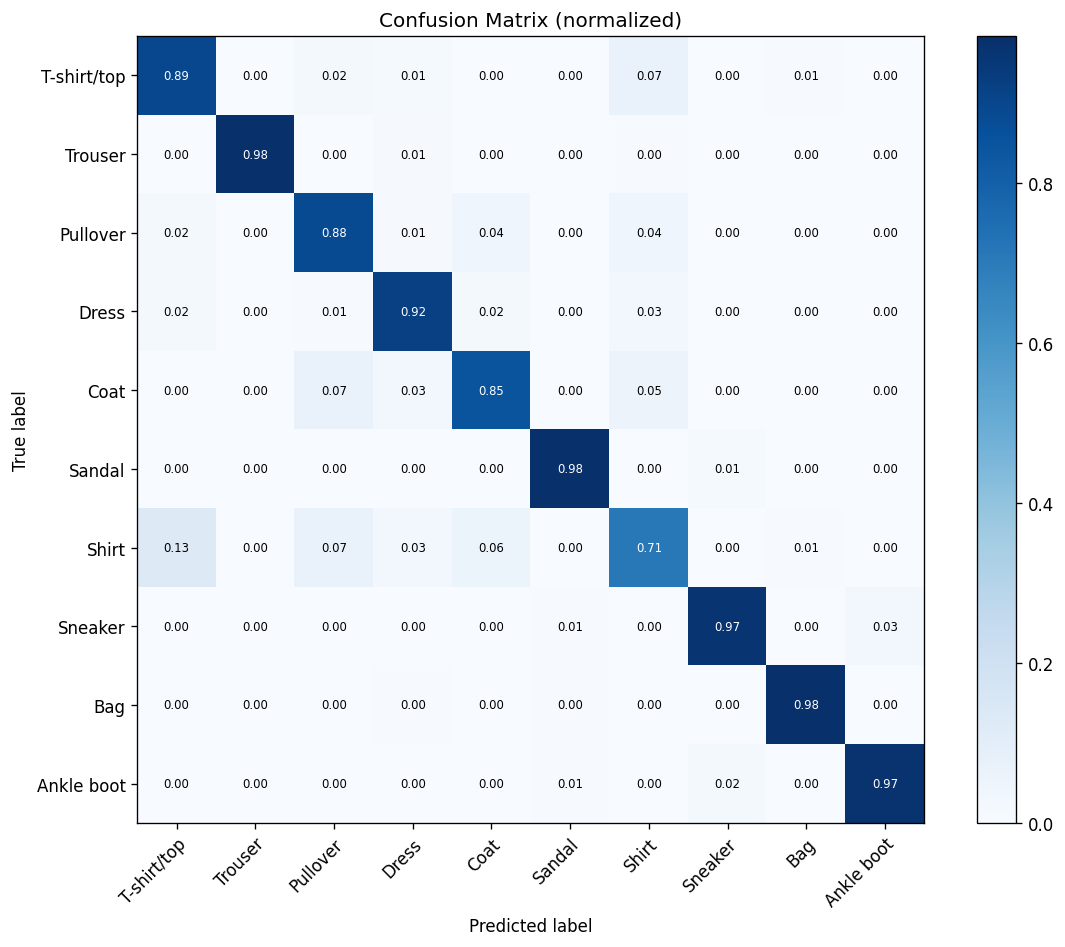
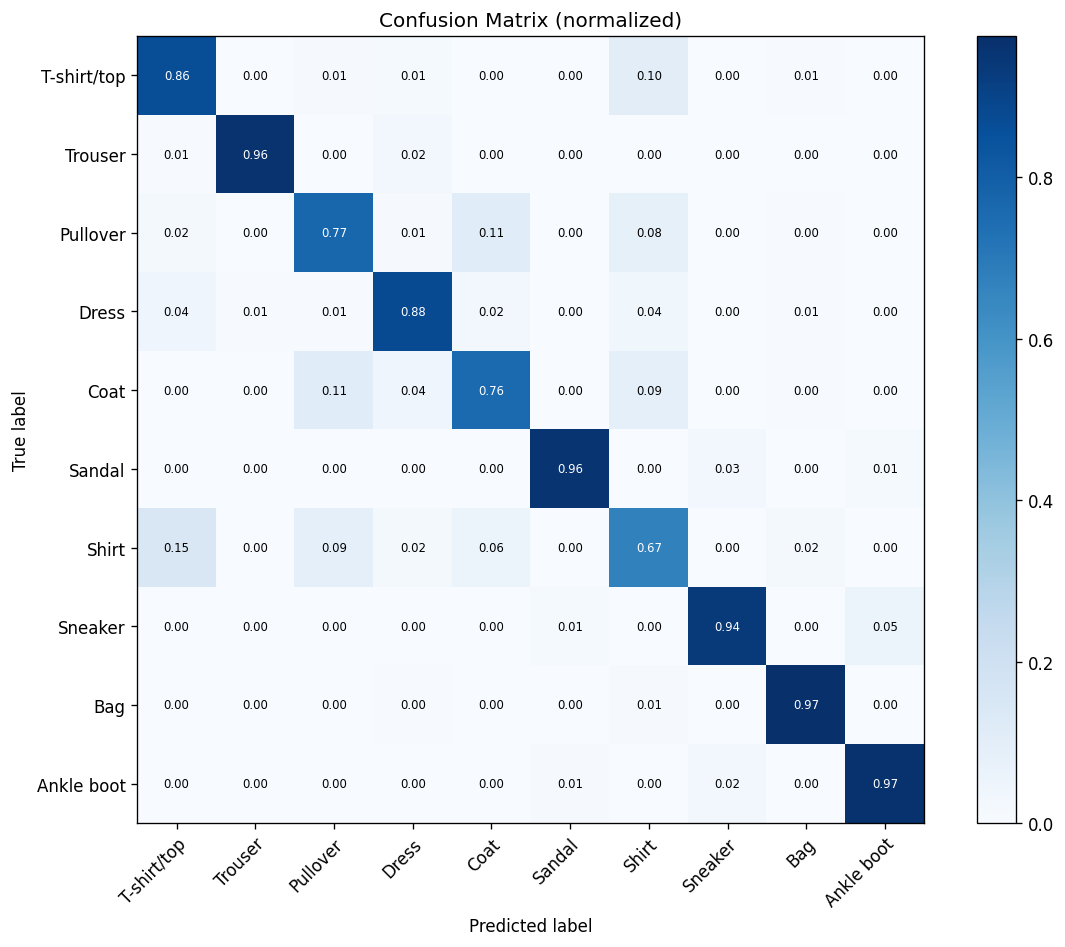
exp: simple_dense baseline

diff --git a/dvclive/report.html b/dvclive/report.html
@@ -22,10 +22,10 @@
             <div style="display: flex;justify-content: center;">
                 <table>
 <thead>
-<tr><th>arch_config          </th><th>arch_name  </th><th style="text-align: right;">  epochs</th><th style="text-align: right;">  batch_size</th><th style="text-align: right;">   lr</th><th>optimizer  </th><th style="text-align: right;">  dropout</th><th style="text-align: right;">  total_params</th><th style="text-align: right;">  seed</th></tr>
+<tr><th>arch_config             </th><th>arch_name   </th><th style="text-align: right;">  epochs</th><th style="text-align: right;">  batch_size</th><th style="text-align: right;">   lr</th><th>optimizer  </th><th style="text-align: right;">  dropout</th><th style="text-align: right;">  total_params</th><th style="text-align: right;">  seed</th></tr>
 </thead>
 <tbody>
-<tr><td>configs\cnn_basic.yml</td><td>cnn_basic  </td><td style="text-align: right;">      10</td><td style="text-align: right;">          64</td><td style="text-align: right;">0.001</td><td>adam       </td><td style="text-align: right;">      0.3</td><td style="text-align: right;">        421642</td><td style="text-align: right;">    42</td></tr>
+<tr><td>configs\simple_dense.yml</td><td>simple_dense</td><td style="text-align: right;">      10</td><td style="text-align: right;">          64</td><td style="text-align: right;">0.001</td><td>adam       </td><td style="text-align: right;">      0.3</td><td style="text-align: right;">        109386</td><td style="text-align: right;">    42</td></tr>
 </tbody>
 </table>
             </div>
@@ -39,7 +39,7 @@
 <tr><th style="text-align: right;">  train.accuracy</th><th style="text-align: right;">  train.loss</th><th style="text-align: right;">  eval.accuracy</th><th style="text-align: right;">  eval.loss</th><th style="text-align: right;">  step</th><th style="text-align: right;">  final_train_accuracy</th><th style="text-align: right;">  final_val_accuracy</th><th style="text-align: right;">  final_train_loss</th><th style="text-align: right;">  final_val_loss</th></tr>
 </thead>
 <tbody>
-<tr><td style="text-align: right;">        0.945854</td><td style="text-align: right;">    0.144314</td><td style="text-align: right;">       0.922167</td><td style="text-align: right;">   0.233419</td><td style="text-align: right;">     9</td><td style="text-align: right;">                0.9459</td><td style="text-align: right;">              0.9222</td><td style="text-align: right;">            0.1443</td><td style="text-align: right;">          0.2334</td></tr>
+<tr><td style="text-align: right;">        0.875333</td><td style="text-align: right;">    0.342184</td><td style="text-align: right;">        0.87925</td><td style="text-align: right;">    0.33251</td><td style="text-align: right;">     9</td><td style="text-align: right;">                0.8753</td><td style="text-align: right;">              0.8792</td><td style="text-align: right;">            0.3422</td><td style="text-align: right;">          0.3325</td></tr>
 </tbody>
 </table>
             </div>
@@ -47,7 +47,7 @@
 
     <div id = "static_eval_accuracy">
         <script type = "text/javascript">
-            var spec = {"$schema": "https://vega.github.io/schema/vega-lite/v5.json", "data": {"values": [{"step": "0", "accuracy": "0.8785833120346069", "rev": "workspace"}, {"step": "1", "accuracy": "0.8964166641235352", "rev": "workspace"}, {"step": "2", "accuracy": "0.906000018119812", "rev": "workspace"}, {"step": "3", "accuracy": "0.9114999771118164", "rev": "workspace"}, {"step": "4", "accuracy": "0.9149166941642761", "rev": "workspace"}, {"step": "5", "accuracy": "0.9152500033378601", "rev": "workspace"}, {"step": "6", "accuracy": "0.9175833463668823", "rev": "workspace"}, {"step": "7", "accuracy": "0.9164166450500488", "rev": "workspace"}, {"step": "8", "accuracy": "0.9204999804496765", "rev": "workspace"}, {"step": "9", "accuracy": "0.922166645526886", "rev": "workspace"}]}, "title": {"text": "eval/accuracy", "anchor": "middle"}, "width": 300, "height": 300, "params": [{"name": "smooth", "value": 0.001, "bind": {"input": "range", "min": 0.001, "max": 1, "step": 0.001}}], "encoding": {"x": {"field": "step", "type": "quantitative", "title": "step"}, "color": {"field": "rev", "scale": {"domain": ["workspace"], "range": ["#945dd6"]}}, "strokeDash": {}}, "layer": [{"layer": [{"params": [{"name": "grid", "select": "interval", "bind": "scales"}], "mark": "line"}, {"transform": [{"filter": {"param": "hover", "empty": false}}], "mark": "point"}], "encoding": {"y": {"field": "accuracy", "type": "quantitative", "title": "accuracy", "scale": {"zero": false}}, "color": {"field": "rev", "type": "nominal"}}, "transform": [{"loess": "accuracy", "on": "step", "groupby": ["rev"], "bandwidth": {"signal": "smooth"}}]}, {"mark": {"type": "line", "opacity": 0.2}, "encoding": {"x": {"field": "step", "type": "quantitative", "title": "step"}, "y": {"field": "accuracy", "type": "quantitative", "title": "accuracy", "scale": {"zero": false}}, "color": {"field": "rev", "type": "nominal"}}}, {"mark": {"type": "circle", "size": 10}, "encoding": {"x": {"aggregate": "max", "field": "step", "type": "quantitative", "title": "step"}, "y": {"aggregate": {"argmax": "step"}, "field": "accuracy", "type": "quantitative", "title": "accuracy", "scale": {"zero": false}}, "color": {"field": "rev", "type": "nominal"}}}, {"transform": [{"calculate": "datum.rev", "as": "pivot_field"}, {"pivot": "pivot_field", "op": "mean", "value": "accuracy", "groupby": ["step"]}], "mark": {"type": "rule", "tooltip": {"content": "data"}, "stroke": "grey"}, "encoding": {"opacity": {"condition": {"value": 0.3, "param": "hover", "empty": false}, "value": 0}}, "params": [{"name": "hover", "select": {"type": "point", "fields": ["step"], "nearest": true, "on": "mouseover", "clear": "mouseout"}}]}]};
+            var spec = {"$schema": "https://vega.github.io/schema/vega-lite/v5.json", "data": {"values": [{"step": "0", "accuracy": "0.8409166932106018", "rev": "workspace"}, {"step": "1", "accuracy": "0.856416642665863", "rev": "workspace"}, {"step": "2", "accuracy": "0.8627499938011169", "rev": "workspace"}, {"step": "3", "accuracy": "0.8634166717529297", "rev": "workspace"}, {"step": "4", "accuracy": "0.8740833401679993", "rev": "workspace"}, {"step": "5", "accuracy": "0.8740833401679993", "rev": "workspace"}, {"step": "6", "accuracy": "0.875166654586792", "rev": "workspace"}, {"step": "7", "accuracy": "0.8770833611488342", "rev": "workspace"}, {"step": "8", "accuracy": "0.8794999718666077", "rev": "workspace"}, {"step": "9", "accuracy": "0.8792499899864197", "rev": "workspace"}]}, "title": {"text": "eval/accuracy", "anchor": "middle"}, "width": 300, "height": 300, "params": [{"name": "smooth", "value": 0.001, "bind": {"input": "range", "min": 0.001, "max": 1, "step": 0.001}}], "encoding": {"x": {"field": "step", "type": "quantitative", "title": "step"}, "color": {"field": "rev", "scale": {"domain": ["workspace"], "range": ["#945dd6"]}}, "strokeDash": {}}, "layer": [{"layer": [{"params": [{"name": "grid", "select": "interval", "bind": "scales"}], "mark": "line"}, {"transform": [{"filter": {"param": "hover", "empty": false}}], "mark": "point"}], "encoding": {"y": {"field": "accuracy", "type": "quantitative", "title": "accuracy", "scale": {"zero": false}}, "color": {"field": "rev", "type": "nominal"}}, "transform": [{"loess": "accuracy", "on": "step", "groupby": ["rev"], "bandwidth": {"signal": "smooth"}}]}, {"mark": {"type": "line", "opacity": 0.2}, "encoding": {"x": {"field": "step", "type": "quantitative", "title": "step"}, "y": {"field": "accuracy", "type": "quantitative", "title": "accuracy", "scale": {"zero": false}}, "color": {"field": "rev", "type": "nominal"}}}, {"mark": {"type": "circle", "size": 10}, "encoding": {"x": {"aggregate": "max", "field": "step", "type": "quantitative", "title": "step"}, "y": {"aggregate": {"argmax": "step"}, "field": "accuracy", "type": "quantitative", "title": "accuracy", "scale": {"zero": false}}, "color": {"field": "rev", "type": "nominal"}}}, {"transform": [{"calculate": "datum.rev", "as": "pivot_field"}, {"pivot": "pivot_field", "op": "mean", "value": "accuracy", "groupby": ["step"]}], "mark": {"type": "rule", "tooltip": {"content": "data"}, "stroke": "grey"}, "encoding": {"opacity": {"condition": {"value": 0.3, "param": "hover", "empty": false}, "value": 0}}, "params": [{"name": "hover", "select": {"type": "point", "fields": ["step"], "nearest": true, "on": "mouseover", "clear": "mouseout"}}]}]};
             vegaEmbed('#static_eval_accuracy', spec);
         </script>
     </div>
@@ -55,7 +55,7 @@
 
     <div id = "static_eval_loss">
         <script type = "text/javascript">
-            var spec = {"$schema": "https://vega.github.io/schema/vega-lite/v5.json", "data": {"values": [{"step": "0", "loss": "0.32892316579818726", "rev": "workspace"}, {"step": "1", "loss": "0.28196483850479126", "rev": "workspace"}, {"step": "2", "loss": "0.253927618265152", "rev": "workspace"}, {"step": "3", "loss": "0.24014584720134735", "rev": "workspace"}, {"step": "4", "loss": "0.22935792803764343", "rev": "workspace"}, {"step": "5", "loss": "0.2382020652294159", "rev": "workspace"}, {"step": "6", "loss": "0.24072694778442383", "rev": "workspace"}, {"step": "7", "loss": "0.2432561218738556", "rev": "workspace"}, {"step": "8", "loss": "0.2277759462594986", "rev": "workspace"}, {"step": "9", "loss": "0.23341859877109528", "rev": "workspace"}]}, "title": {"text": "eval/loss", "anchor": "middle"}, "width": 300, "height": 300, "params": [{"name": "smooth", "value": 0.001, "bind": {"input": "range", "min": 0.001, "max": 1, "step": 0.001}}], "encoding": {"x": {"field": "step", "type": "quantitative", "title": "step"}, "color": {"field": "rev", "scale": {"domain": ["workspace"], "range": ["#945dd6"]}}, "strokeDash": {}}, "layer": [{"layer": [{"params": [{"name": "grid", "select": "interval", "bind": "scales"}], "mark": "line"}, {"transform": [{"filter": {"param": "hover", "empty": false}}], "mark": "point"}], "encoding": {"y": {"field": "loss", "type": "quantitative", "title": "loss", "scale": {"zero": false}}, "color": {"field": "rev", "type": "nominal"}}, "transform": [{"loess": "loss", "on": "step", "groupby": ["rev"], "bandwidth": {"signal": "smooth"}}]}, {"mark": {"type": "line", "opacity": 0.2}, "encoding": {"x": {"field": "step", "type": "quantitative", "title": "step"}, "y": {"field": "loss", "type": "quantitative", "title": "loss", "scale": {"zero": false}}, "color": {"field": "rev", "type": "nominal"}}}, {"mark": {"type": "circle", "size": 10}, "encoding": {"x": {"aggregate": "max", "field": "step", "type": "quantitative", "title": "step"}, "y": {"aggregate": {"argmax": "step"}, "field": "loss", "type": "quantitative", "title": "loss", "scale": {"zero": false}}, "color": {"field": "rev", "type": "nominal"}}}, {"transform": [{"calculate": "datum.rev", "as": "pivot_field"}, {"pivot": "pivot_field", "op": "mean", "value": "loss", "groupby": ["step"]}], "mark": {"type": "rule", "tooltip": {"content": "data"}, "stroke": "grey"}, "encoding": {"opacity": {"condition": {"value": 0.3, "param": "hover", "empty": false}, "value": 0}}, "params": [{"name": "hover", "select": {"type": "point", "fields": ["step"], "nearest": true, "on": "mouseover", "clear": "mouseout"}}]}]};
+            var spec = {"$schema": "https://vega.github.io/schema/vega-lite/v5.json", "data": {"values": [{"step": "0", "loss": "0.4370012879371643", "rev": "workspace"}, {"step": "1", "loss": "0.3935147821903229", "rev": "workspace"}, {"step": "2", "loss": "0.378427118062973", "rev": "workspace"}, {"step": "3", "loss": "0.3704400658607483", "rev": "workspace"}, {"step": "4", "loss": "0.3499363958835602", "rev": "workspace"}, {"step": "5", "loss": "0.34744352102279663", "rev": "workspace"}, {"step": "6", "loss": "0.3462522029876709", "rev": "workspace"}, {"step": "7", "loss": "0.3392244577407837", "rev": "workspace"}, {"step": "8", "loss": "0.3316449820995331", "rev": "workspace"}, {"step": "9", "loss": "0.33250975608825684", "rev": "workspace"}]}, "title": {"text": "eval/loss", "anchor": "middle"}, "width": 300, "height": 300, "params": [{"name": "smooth", "value": 0.001, "bind": {"input": "range", "min": 0.001, "max": 1, "step": 0.001}}], "encoding": {"x": {"field": "step", "type": "quantitative", "title": "step"}, "color": {"field": "rev", "scale": {"domain": ["workspace"], "range": ["#945dd6"]}}, "strokeDash": {}}, "layer": [{"layer": [{"params": [{"name": "grid", "select": "interval", "bind": "scales"}], "mark": "line"}, {"transform": [{"filter": {"param": "hover", "empty": false}}], "mark": "point"}], "encoding": {"y": {"field": "loss", "type": "quantitative", "title": "loss", "scale": {"zero": false}}, "color": {"field": "rev", "type": "nominal"}}, "transform": [{"loess": "loss", "on": "step", "groupby": ["rev"], "bandwidth": {"signal": "smooth"}}]}, {"mark": {"type": "line", "opacity": 0.2}, "encoding": {"x": {"field": "step", "type": "quantitative", "title": "step"}, "y": {"field": "loss", "type": "quantitative", "title": "loss", "scale": {"zero": false}}, "color": {"field": "rev", "type": "nominal"}}}, {"mark": {"type": "circle", "size": 10}, "encoding": {"x": {"aggregate": "max", "field": "step", "type": "quantitative", "title": "step"}, "y": {"aggregate": {"argmax": "step"}, "field": "loss", "type": "quantitative", "title": "loss", "scale": {"zero": false}}, "color": {"field": "rev", "type": "nominal"}}}, {"transform": [{"calculate": "datum.rev", "as": "pivot_field"}, {"pivot": "pivot_field", "op": "mean", "value": "loss", "groupby": ["step"]}], "mark": {"type": "rule", "tooltip": {"content": "data"}, "stroke": "grey"}, "encoding": {"opacity": {"condition": {"value": 0.3, "param": "hover", "empty": false}, "value": 0}}, "params": [{"name": "hover", "select": {"type": "point", "fields": ["step"], "nearest": true, "on": "mouseover", "clear": "mouseout"}}]}]};
             vegaEmbed('#static_eval_loss', spec);
         </script>
     </div>
@@ -63,7 +63,7 @@
 
     <div id = "static_train_accuracy">
         <script type = "text/javascript">
-            var spec = {"$schema": "https://vega.github.io/schema/vega-lite/v5.json", "data": {"values": [{"step": "0", "accuracy": "0.8150625228881836", "rev": "workspace"}, {"step": "1", "accuracy": "0.8816875219345093", "rev": "workspace"}, {"step": "2", "accuracy": "0.8989166617393494", "rev": "workspace"}, {"step": "3", "accuracy": "0.9090833067893982", "rev": "workspace"}, {"step": "4", "accuracy": "0.917312502861023", "rev": "workspace"}, {"step": "5", "accuracy": "0.9227291941642761", "rev": "workspace"}, {"step": "6", "accuracy": "0.9305416941642761", "rev": "workspace"}, {"step": "7", "accuracy": "0.9367083311080933", "rev": "workspace"}, {"step": "8", "accuracy": "0.9403958320617676", "rev": "workspace"}, {"step": "9", "accuracy": "0.9458541870117188", "rev": "workspace"}]}, "title": {"text": "train/accuracy", "anchor": "middle"}, "width": 300, "height": 300, "params": [{"name": "smooth", "value": 0.001, "bind": {"input": "range", "min": 0.001, "max": 1, "step": 0.001}}], "encoding": {"x": {"field": "step", "type": "quantitative", "title": "step"}, "color": {"field": "rev", "scale": {"domain": ["workspace"], "range": ["#945dd6"]}}, "strokeDash": {}}, "layer": [{"layer": [{"params": [{"name": "grid", "select": "interval", "bind": "scales"}], "mark": "line"}, {"transform": [{"filter": {"param": "hover", "empty": false}}], "mark": "point"}], "encoding": {"y": {"field": "accuracy", "type": "quantitative", "title": "accuracy", "scale": {"zero": false}}, "color": {"field": "rev", "type": "nominal"}}, "transform": [{"loess": "accuracy", "on": "step", "groupby": ["rev"], "bandwidth": {"signal": "smooth"}}]}, {"mark": {"type": "line", "opacity": 0.2}, "encoding": {"x": {"field": "step", "type": "quantitative", "title": "step"}, "y": {"field": "accuracy", "type": "quantitative", "title": "accuracy", "scale": {"zero": false}}, "color": {"field": "rev", "type": "nominal"}}}, {"mark": {"type": "circle", "size": 10}, "encoding": {"x": {"aggregate": "max", "field": "step", "type": "quantitative", "title": "step"}, "y": {"aggregate": {"argmax": "step"}, "field": "accuracy", "type": "quantitative", "title": "accuracy", "scale": {"zero": false}}, "color": {"field": "rev", "type": "nominal"}}}, {"transform": [{"calculate": "datum.rev", "as": "pivot_field"}, {"pivot": "pivot_field", "op": "mean", "value": "accuracy", "groupby": ["step"]}], "mark": {"type": "rule", "tooltip": {"content": "data"}, "stroke": "grey"}, "encoding": {"opacity": {"condition": {"value": 0.3, "param": "hover", "empty": false}, "value": 0}}, "params": [{"name": "hover", "select": {"type": "point", "fields": ["step"], "nearest": true, "on": "mouseover", "clear": "mouseout"}}]}]};
+            var spec = {"$schema": "https://vega.github.io/schema/vega-lite/v5.json", "data": {"values": [{"step": "0", "accuracy": "0.7543958425521851", "rev": "workspace"}, {"step": "1", "accuracy": "0.8291458487510681", "rev": "workspace"}, {"step": "2", "accuracy": "0.8431666493415833", "rev": "workspace"}, {"step": "3", "accuracy": "0.8530625104904175", "rev": "workspace"}, {"step": "4", "accuracy": "0.859666645526886", "rev": "workspace"}, {"step": "5", "accuracy": "0.8607083559036255", "rev": "workspace"}, {"step": "6", "accuracy": "0.8642083406448364", "rev": "workspace"}, {"step": "7", "accuracy": "0.8693125247955322", "rev": "workspace"}, {"step": "8", "accuracy": "0.871833324432373", "rev": "workspace"}, {"step": "9", "accuracy": "0.875333309173584", "rev": "workspace"}]}, "title": {"text": "train/accuracy", "anchor": "middle"}, "width": 300, "height": 300, "params": [{"name": "smooth", "value": 0.001, "bind": {"input": "range", "min": 0.001, "max": 1, "step": 0.001}}], "encoding": {"x": {"field": "step", "type": "quantitative", "title": "step"}, "color": {"field": "rev", "scale": {"domain": ["workspace"], "range": ["#945dd6"]}}, "strokeDash": {}}, "layer": [{"layer": [{"params": [{"name": "grid", "select": "interval", "bind": "scales"}], "mark": "line"}, {"transform": [{"filter": {"param": "hover", "empty": false}}], "mark": "point"}], "encoding": {"y": {"field": "accuracy", "type": "quantitative", "title": "accuracy", "scale": {"zero": false}}, "color": {"field": "rev", "type": "nominal"}}, "transform": [{"loess": "accuracy", "on": "step", "groupby": ["rev"], "bandwidth": {"signal": "smooth"}}]}, {"mark": {"type": "line", "opacity": 0.2}, "encoding": {"x": {"field": "step", "type": "quantitative", "title": "step"}, "y": {"field": "accuracy", "type": "quantitative", "title": "accuracy", "scale": {"zero": false}}, "color": {"field": "rev", "type": "nominal"}}}, {"mark": {"type": "circle", "size": 10}, "encoding": {"x": {"aggregate": "max", "field": "step", "type": "quantitative", "title": "step"}, "y": {"aggregate": {"argmax": "step"}, "field": "accuracy", "type": "quantitative", "title": "accuracy", "scale": {"zero": false}}, "color": {"field": "rev", "type": "nominal"}}}, {"transform": [{"calculate": "datum.rev", "as": "pivot_field"}, {"pivot": "pivot_field", "op": "mean", "value": "accuracy", "groupby": ["step"]}], "mark": {"type": "rule", "tooltip": {"content": "data"}, "stroke": "grey"}, "encoding": {"opacity": {"condition": {"value": 0.3, "param": "hover", "empty": false}, "value": 0}}, "params": [{"name": "hover", "select": {"type": "point", "fields": ["step"], "nearest": true, "on": "mouseover", "clear": "mouseout"}}]}]};
             vegaEmbed('#static_train_accuracy', spec);
         </script>
     </div>
@@ -71,7 +71,7 @@
 
     <div id = "static_train_loss">
         <script type = "text/javascript">
-            var spec = {"$schema": "https://vega.github.io/schema/vega-lite/v5.json", "data": {"values": [{"step": "0", "loss": "0.5113662481307983", "rev": "workspace"}, {"step": "1", "loss": "0.33097463846206665", "rev": "workspace"}, {"step": "2", "loss": "0.2805950939655304", "rev": "workspace"}, {"step": "3", "loss": "0.25135329365730286", "rev": "workspace"}, {"step": "4", "loss": "0.2276802808046341", "rev": "workspace"}, {"step": "5", "loss": "0.20768381655216217", "rev": "workspace"}, {"step": "6", "loss": "0.18900293111801147", "rev": "workspace"}, {"step": "7", "loss": "0.17137880623340607", "rev": "workspace"}, {"step": "8", "loss": "0.15876354277133942", "rev": "workspace"}, {"step": "9", "loss": "0.14431385695934296", "rev": "workspace"}]}, "title": {"text": "train/loss", "anchor": "middle"}, "width": 300, "height": 300, "params": [{"name": "smooth", "value": 0.001, "bind": {"input": "range", "min": 0.001, "max": 1, "step": 0.001}}], "encoding": {"x": {"field": "step", "type": "quantitative", "title": "step"}, "color": {"field": "rev", "scale": {"domain": ["workspace"], "range": ["#945dd6"]}}, "strokeDash": {}}, "layer": [{"layer": [{"params": [{"name": "grid", "select": "interval", "bind": "scales"}], "mark": "line"}, {"transform": [{"filter": {"param": "hover", "empty": false}}], "mark": "point"}], "encoding": {"y": {"field": "loss", "type": "quantitative", "title": "loss", "scale": {"zero": false}}, "color": {"field": "rev", "type": "nominal"}}, "transform": [{"loess": "loss", "on": "step", "groupby": ["rev"], "bandwidth": {"signal": "smooth"}}]}, {"mark": {"type": "line", "opacity": 0.2}, "encoding": {"x": {"field": "step", "type": "quantitative", "title": "step"}, "y": {"field": "loss", "type": "quantitative", "title": "loss", "scale": {"zero": false}}, "color": {"field": "rev", "type": "nominal"}}}, {"mark": {"type": "circle", "size": 10}, "encoding": {"x": {"aggregate": "max", "field": "step", "type": "quantitative", "title": "step"}, "y": {"aggregate": {"argmax": "step"}, "field": "loss", "type": "quantitative", "title": "loss", "scale": {"zero": false}}, "color": {"field": "rev", "type": "nominal"}}}, {"transform": [{"calculate": "datum.rev", "as": "pivot_field"}, {"pivot": "pivot_field", "op": "mean", "value": "loss", "groupby": ["step"]}], "mark": {"type": "rule", "tooltip": {"content": "data"}, "stroke": "grey"}, "encoding": {"opacity": {"condition": {"value": 0.3, "param": "hover", "empty": false}, "value": 0}}, "params": [{"name": "hover", "select": {"type": "point", "fields": ["step"], "nearest": true, "on": "mouseover", "clear": "mouseout"}}]}]};
+            var spec = {"$schema": "https://vega.github.io/schema/vega-lite/v5.json", "data": {"values": [{"step": "0", "loss": "0.6912639737129211", "rev": "workspace"}, {"step": "1", "loss": "0.48137593269348145", "rev": "workspace"}, {"step": "2", "loss": "0.4369690716266632", "rev": "workspace"}, {"step": "3", "loss": "0.4129643142223358", "rev": "workspace"}, {"step": "4", "loss": "0.3956981599330902", "rev": "workspace"}, {"step": "5", "loss": "0.3829806447029114", "rev": "workspace"}, {"step": "6", "loss": "0.3720402121543884", "rev": "workspace"}, {"step": "7", "loss": "0.3621000647544861", "rev": "workspace"}, {"step": "8", "loss": "0.3517917990684509", "rev": "workspace"}, {"step": "9", "loss": "0.34218400716781616", "rev": "workspace"}]}, "title": {"text": "train/loss", "anchor": "middle"}, "width": 300, "height": 300, "params": [{"name": "smooth", "value": 0.001, "bind": {"input": "range", "min": 0.001, "max": 1, "step": 0.001}}], "encoding": {"x": {"field": "step", "type": "quantitative", "title": "step"}, "color": {"field": "rev", "scale": {"domain": ["workspace"], "range": ["#945dd6"]}}, "strokeDash": {}}, "layer": [{"layer": [{"params": [{"name": "grid", "select": "interval", "bind": "scales"}], "mark": "line"}, {"transform": [{"filter": {"param": "hover", "empty": false}}], "mark": "point"}], "encoding": {"y": {"field": "loss", "type": "quantitative", "title": "loss", "scale": {"zero": false}}, "color": {"field": "rev", "type": "nominal"}}, "transform": [{"loess": "loss", "on": "step", "groupby": ["rev"], "bandwidth": {"signal": "smooth"}}]}, {"mark": {"type": "line", "opacity": 0.2}, "encoding": {"x": {"field": "step", "type": "quantitative", "title": "step"}, "y": {"field": "loss", "type": "quantitative", "title": "loss", "scale": {"zero": false}}, "color": {"field": "rev", "type": "nominal"}}}, {"mark": {"type": "circle", "size": 10}, "encoding": {"x": {"aggregate": "max", "field": "step", "type": "quantitative", "title": "step"}, "y": {"aggregate": {"argmax": "step"}, "field": "loss", "type": "quantitative", "title": "loss", "scale": {"zero": false}}, "color": {"field": "rev", "type": "nominal"}}}, {"transform": [{"calculate": "datum.rev", "as": "pivot_field"}, {"pivot": "pivot_field", "op": "mean", "value": "loss", "groupby": ["step"]}], "mark": {"type": "rule", "tooltip": {"content": "data"}, "stroke": "grey"}, "encoding": {"opacity": {"condition": {"value": 0.3, "param": "hover", "empty": false}, "value": 0}}, "params": [{"name": "hover", "select": {"type": "point", "fields": ["step"], "nearest": true, "on": "mouseover", "clear": "mouseout"}}]}]};
             vegaEmbed('#static_train_loss', spec);
         </script>
     </div>
